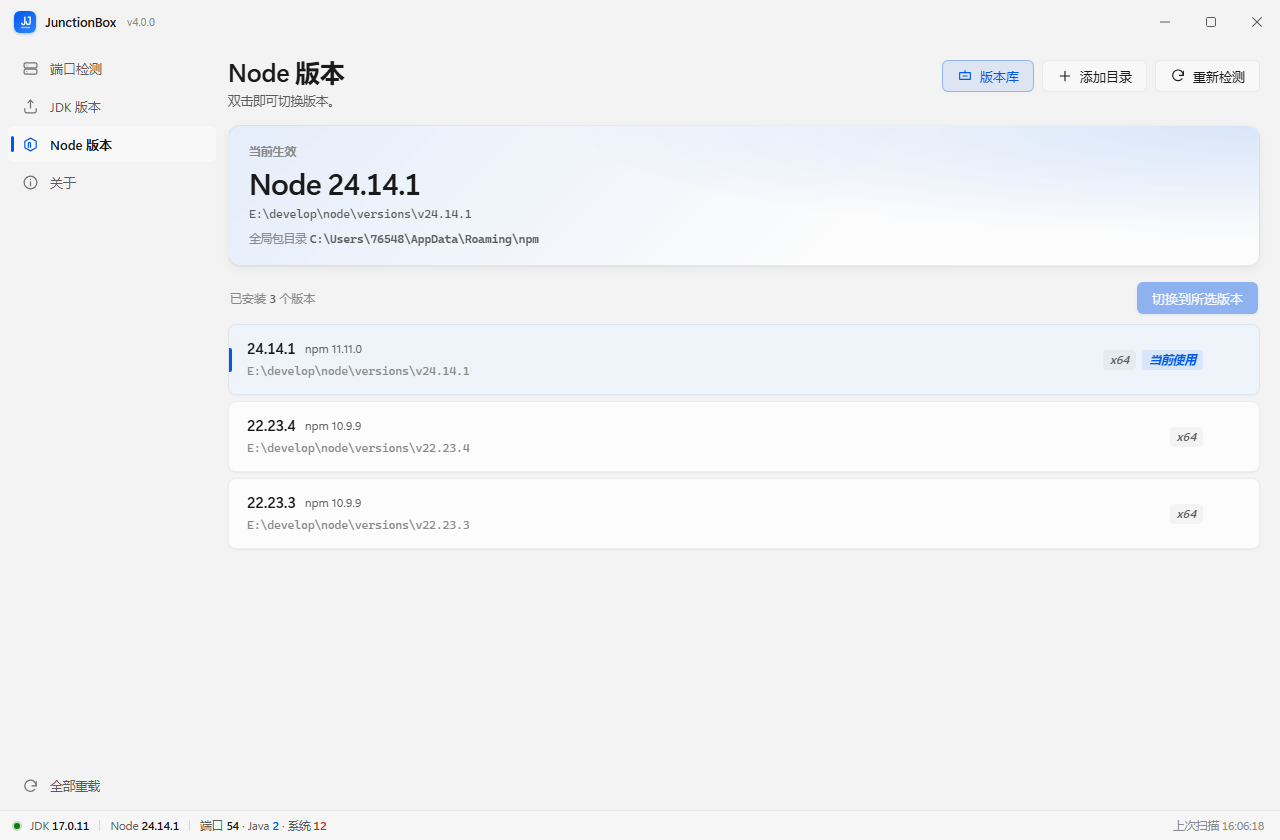
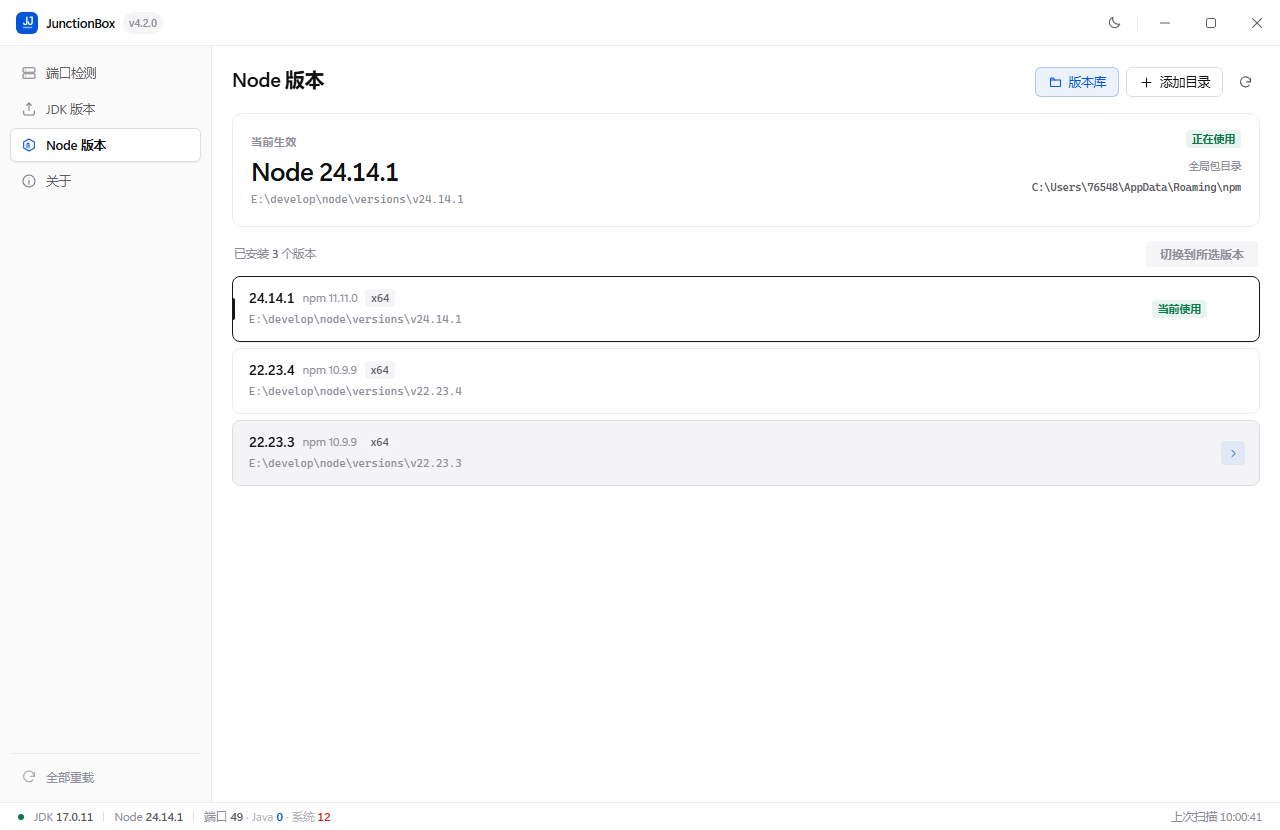
docs: 4.2.0 changelog, refreshed screenshots, theme and security notes
- CHANGELOG gains the 4.2.0 section: dark mode, the redesign, the
  self-healing fix, the renderer lockdown, and the asar slimming
- both READMEs mention the one-click dark mode and show it in the
  screenshot table (docs/screenshots/7-dark.png)
- ARCHITECTURE documents how the theme is persisted and adds a security
  boundary chapter listing what the renderer is and is not allowed to do
- screenshots re-captured from the rebuilt interface

diff --git a/CHANGELOG.md b/CHANGELOG.md
@@ -13,6 +13,60 @@ Release 页就显示什么**。写新版本时只需遵守三个约定：
 
 ---
 
+## [4.2.0] - 2026-10-30 · 纯白界面、夜间模式，以及一轮安全加固
+
+界面从零重做，同时把这一轮安全审计发现的几个真问题一并修掉。其中最值得说的一个：
+旧版自愈逻辑可能在你不注意的时候换掉当前在用的运行时。
+
+### 新增
+
+- **夜间模式**。标题栏右上角的按钮一键切换，「关于」页里也可以在**浅色 / 夜间 / 跟随系统**
+  三者间选。选择写入 `%APPDATA%\JavaDevTool\settings.json`，启动时恢复；选「跟随系统」则
+  随 Windows 的深浅色设置实时变化。
+- **自测脚本**。`npm test` 跑 31 项断言，覆盖 PATH 重建去重、长度闸门、联接切换不破坏目标
+  目录、删除保护、安装位置校验、版本号归一化、进程结束边界条件。
+
+### 调整
+
+- **界面完全重做**。纯白配色（`#ffffff` 底 + `#f5f5f7` 凹陷层 + `#ececef` 描边），主按钮改用
+  墨色而非品牌蓝，避免与 Java / Node 的标识色抢注意力；标题栏 46px、侧栏选中项改为白底加
+  描边微投影、状态栏 28px，各页留白统一。
+- **移除云母材质**。Windows 11 的 `backgroundMaterial: 'mica'` 会让纯白变成半透灰，与应用
+  自身的配色打架，已全部删除，窗口改用纯色背景，夜间切 `#0d0d10`。
+- **文案精简**。删除各页副标题与解释性长句，提示语压缩到一行（例如「已切换 Java 17 ·
+  请重开终端」）。
+- **端口列表列对齐**。表头与表体滚动条占位不一致导致最后一列错位，已用 `scrollbar-gutter:
+  stable` 与等宽补白修正。
+- **选中态统一**。侧栏、版本列表、版本库「当前使用」行此前用的是三种不同表现（白卡描边 /
+  蓝底蓝竖条 / 浅蓝底），现统一为白底 + 深色描边 + 微投影。
+- **安装包瘦身**。`vue` 实际只在构建期使用，却因为写在 `dependencies` 里导致整套 Vue
+  运行时被打进 `app.asar`。移到 `devDependencies` 并排除 `node_modules` 后，asar 从
+  **14.5 MB 降到 0.23 MB**（602 个文件 → 12 个），安装包 108 MB → 107 MB。
+
+### 修复
+
+- **自愈逻辑会静默换掉运行时（最严重）**。旧版只扫描用户级 `Path`，当 Node 装在机器级的
+  `C:\Program Files\nodejs` 时会被判定为「没有 Node」，随后把 `links\node` 插到用户级 `Path`
+  首位——等于在你不知情的时候切换了版本。现已同时扫描机器级与用户级，并且只在确实登记过
+  切换记录（`last_node.txt` / `last_jdk.txt`）时才动手。
+- **启动时无条件重建 Node 联接**。只要切换过一次就会永久生效。现在仅在 `Path` 里确实引用
+  `links\node` 时才重建。
+- **`Path` 重复项累积**。`%JAVA_HOME%\bin` 等字面量在解不开时会被展开成 `\bin`，匹配不上
+  原值，导致每次重建都重复插入一项，长期会把环境块撑大。已按小写归一化去重，并新增
+  `checkPathSize()` 在写入前拦截超过 30000 字符的 `Path`（Windows 上限 32767）。
+- **联接切换存在空档期**。旧实现先删后建，中间有毫秒级「路径不存在」窗口，此时启动的进程
+  会拿不到运行时。改为先建 `link.new` 再 rename 覆盖，并把「目标已相同」做成零操作。
+- **结束进程缺少边界检查**。`killProcess` 此前可传入 `0`、`4` 或自身 PID。现已拒绝非整数、
+  小于等于 4 以及当前进程自身。
+- **渲染进程安全边界**。外部链接只放行 `http(s)`；拦截页面跳转与 `webview` 挂载；权限请求
+  一律拒绝。此前这几项都没有限制。
+- **IPC 参数未校验**。`path:add` 等接受相对路径会写入无效记录，现已强制绝对路径。
+
+### 注意
+
+- 主题选择保存在 roaming 的 `%APPDATA%\JavaDevTool\settings.json`，卸载时不会自动清理。
+- 移除云母材质后，Windows 11 上窗口背景不再是半透效果，这是刻意的取舍。
+
 ## [4.1.1] - 2026-10-29 · 删除版本前先确认
 
 之前点「删除」是立即执行的物理删除，而它紧挨着「切换」按钮，误点一下就没了。

diff --git a/README.md b/README.md
@@ -46,6 +46,12 @@ no administrator rights, no environment rebuild.
     <td align="center"><sub><b>Environment</b> — resolved <code>JAVA_HOME</code> and active runtimes</sub></td>
     <td align="center"><sub><b>Ports</b> — PID resolved to process and command line</sub></td>
   </tr>
+  <tr>
+    <td colspan="2" align="center"><img src="docs/screenshots/7-dark.png" alt="Dark mode" width="78%" /></td>
+  </tr>
+  <tr>
+    <td colspan="2" align="center"><sub><b>Dark mode</b> — one toggle in the title bar, or follow the system</sub></td>
+  </tr>
 </table>
 
 ## Highlights
@@ -61,8 +67,8 @@ no administrator rights, no environment rebuild.
 - **Runtime store.** JDK 8 / 11 / 17 / 21 / 25 and Node 20 / 22 / 24 / 26, streamed from mirror
   chains on demand — which is why the installer stays at **108 MB**.
 - **Self-healing.** Broken junctions and stale `Path` entries are repaired at startup.
-- **Native surface.** Mica backdrop, Fluent 2 motion, custom title bar, `frame: false`, no
-  browser chrome.
+- **Native surface.** Pure-white light theme, one-click dark mode from the title bar (also
+  follows the system preference), custom title bar, no browser chrome.
 
 ## How it works
 
@@ -117,7 +123,7 @@ replace its environment block.
 | Shell | Electron 44.9, Chromium + Node in one process tree |
 | UI | Vue 3.5, no component library — every control is written against the design tokens |
 | Build | Vite 8 for the renderer, electron-builder 26 for NSIS and portable targets |
-| Styling | Hand-written CSS on Fluent 2 tokens; Mica via `backgroundMaterial` |
+| Styling | Hand-written CSS on design tokens; pure-white theme + dark mode, no UI framework |
 | Process model | `contextIsolation: true`, `nodeIntegration: false`, preload bridge |
 | System layer | `child_process`, PowerShell 5.1, .NET Registry API, `netstat`, CIM |
 | Link layer | NTFS directory junctions (`fs.symlink` with `type: "junction"`, `[IO.Directory]`) |

diff --git a/docs/TROUBLESHOOTING.md b/docs/TROUBLESHOOTING.md
@@ -95,7 +95,7 @@ Get-ChildItem $links -Force | Select-Object Name, LinkType, Target
 
 ## 4. 界面白屏 / 花屏 / 黑块
 
-**判断**：窗口能打开但内容不渲染，或 Mica 材质区域出现色块。
+**判断**：窗口能打开但内容不渲染，或窗口局部出现色块。
 
 这是 GPU 合成层的问题，常见于旧显卡驱动、远程桌面、虚拟机。程序检测到连续 GPU 崩溃后
 会自动降级为软件渲染，重启一次即可。
@@ -107,7 +107,7 @@ Get-ChildItem $links -Force | Select-Object Name, LinkType, Target
 .\JunctionBox-Portable-x64.exe --disable-gpu
 ```
 
-窗口透明或 Mica 异常（Windows 10 早期版本）：
+窗口局部花屏（部分老显卡驱动）：
 
 ```powershell
 .\JunctionBox-Portable-x64.exe --disable-gpu-compositing
